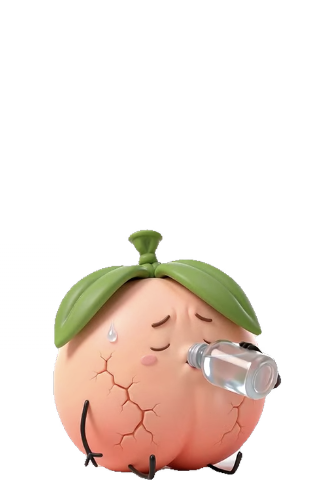
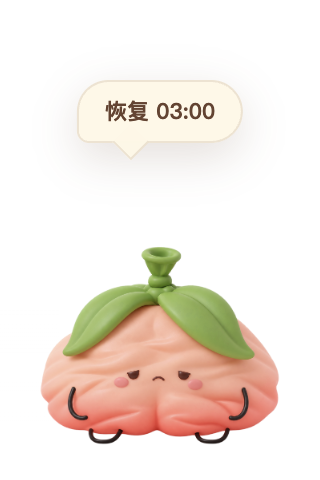
docs: refresh alert and recovery visual qa

diff --git a/docs/qa/state-visual-qa.md b/docs/qa/state-visual-qa.md
@@ -17,7 +17,7 @@
 | 睡觉 | `states/pet-sleep-160x240@2x.png` | 长休状态稳定，循环首尾已交叉淡化。 |
 | 压力 | `states/pet-pressure-160x240@2x.png` | 变红膨胀，无底部椅座横线。 |
 | 瘪气 | `states/pet-deflated-160x240@2x.png` | 爆炸后形态明确且不误显示正常站姿。 |
-| 恢复 | `states/pet-recovering-160x240@2x.png` | 喝水恢复动作与瘪气锁定语义一致。 |
+| 恢复 | `states/pet-recovering-160x240@2x.png` | 保持瘪气锁定并显示真实恢复倒计时，不误播喝水恢复动作。 |
 | 变身 | `states/pet-transform-160x240@2x.png` | 旋风完整进入画布，过渡不改变媒体槽尺寸。 |
 | 打招呼 | `states/pet-greeting-160x240@2x.png` | 手脚完整、透明边缘干净；仅明确点击触发。 |
 
@@ -27,8 +27,8 @@
 
 | 状态 | 截图 | 检查结果 |
 | --- | --- | --- |
-| 休息到点 | `states/rest-due-fullscreen@2x.png` | 桃屁屁与动态大字明显，提示不依赖宠物底部倒计时。 |
-| 爆炸 | `states/explosion-fullscreen@2x.png` | 爆裂短片充满主要视觉区，包含“快去休息啦”与 5 分钟恢复说明。 |
+| 休息到点 | `states/rest-due-fullscreen@2x.png` | 桃屁屁与动态大字明显，提示不依赖宠物底部倒计时；全屏层期间小窗隐藏。 |
+| 爆炸 | `states/explosion-fullscreen@2x.png` | 爆裂短片充满主要视觉区，包含“快去休息啦”与 5 分钟恢复说明；没有第二只待机桃。 |
 
 ## 响应式统计页
 

diff --git a/docs/video-asset-workflow.md b/docs/video-asset-workflow.md
@@ -60,7 +60,7 @@ python3 -m venv .venv-video
 2. 统计动作中主体包围盒的中位宽高，排除爆炸飞散帧。
 3. 为普通状态设置统一目标可视高度；压力膨胀可按设计扩大。
 4. 建立底部锚点：站立角色用脚底，坐姿角色用椅脚或身体最低有效接触点。
-5. 将帧贴入统一透明画布，水平居中并对齐底部锚点。普通动作保留 8px 底部安全区；带椅子的专注素材额外缩小并保留 18px，避免椅脚贴边。
+5. 将帧贴入统一透明画布，水平居中并对齐底部锚点。最终成片统一保留 8px 底部安全区；专注素材在去椅座横轨的重构中可临时使用 18px 工作边距，但恢复完整短腿并重新归一后，清单与校验以最终 8px 为准。
 6. 保留 6%–10% 安全边距，叶子、手脚和爆炸碎片不能被裁切。
 
 验收：在相同容器内切换待机、挥手、专注、睡觉和厕所，主体视觉高度误差应小于 5%，底部不能上下跳。

diff --git a/docs/sdd/tasks.md b/docs/sdd/tasks.md
@@ -43,7 +43,7 @@
 - [x] 增加独立的气泡空间；气泡只显示一句短文案、3.2 秒自动隐藏，无按钮，不覆盖或裁切宠物脚部和椅脚。
 - [x] 新增低频待机 WebM：眨眼、三指小手和短腿只做微小动作，主体尺寸与脚底基线固定。
 - [x] 新增护眼超时四级动作：眼睛逐步变红、干裂，最后停在警示帧。
-- [x] 全部旧视频统一提亮增色；打招呼素材清除脚内白影与低 Alpha 毛边；专注椅脚增加 18px 安全区。
+- [x] 全部旧视频统一提亮增色；打招呼素材清除脚内白影与低 Alpha 毛边；专注重构阶段使用 18px 防裁切边距，恢复完整短腿后的最终输出按清单统一为 8px 安全区。
 - [x] 菜单使用系统原生边缘避让和键盘操作；Esc 可返回或关闭。
 - [x] 番茄结束后必须点击桃屁屁确认休息，并只给出一次短气泡反馈。
 
